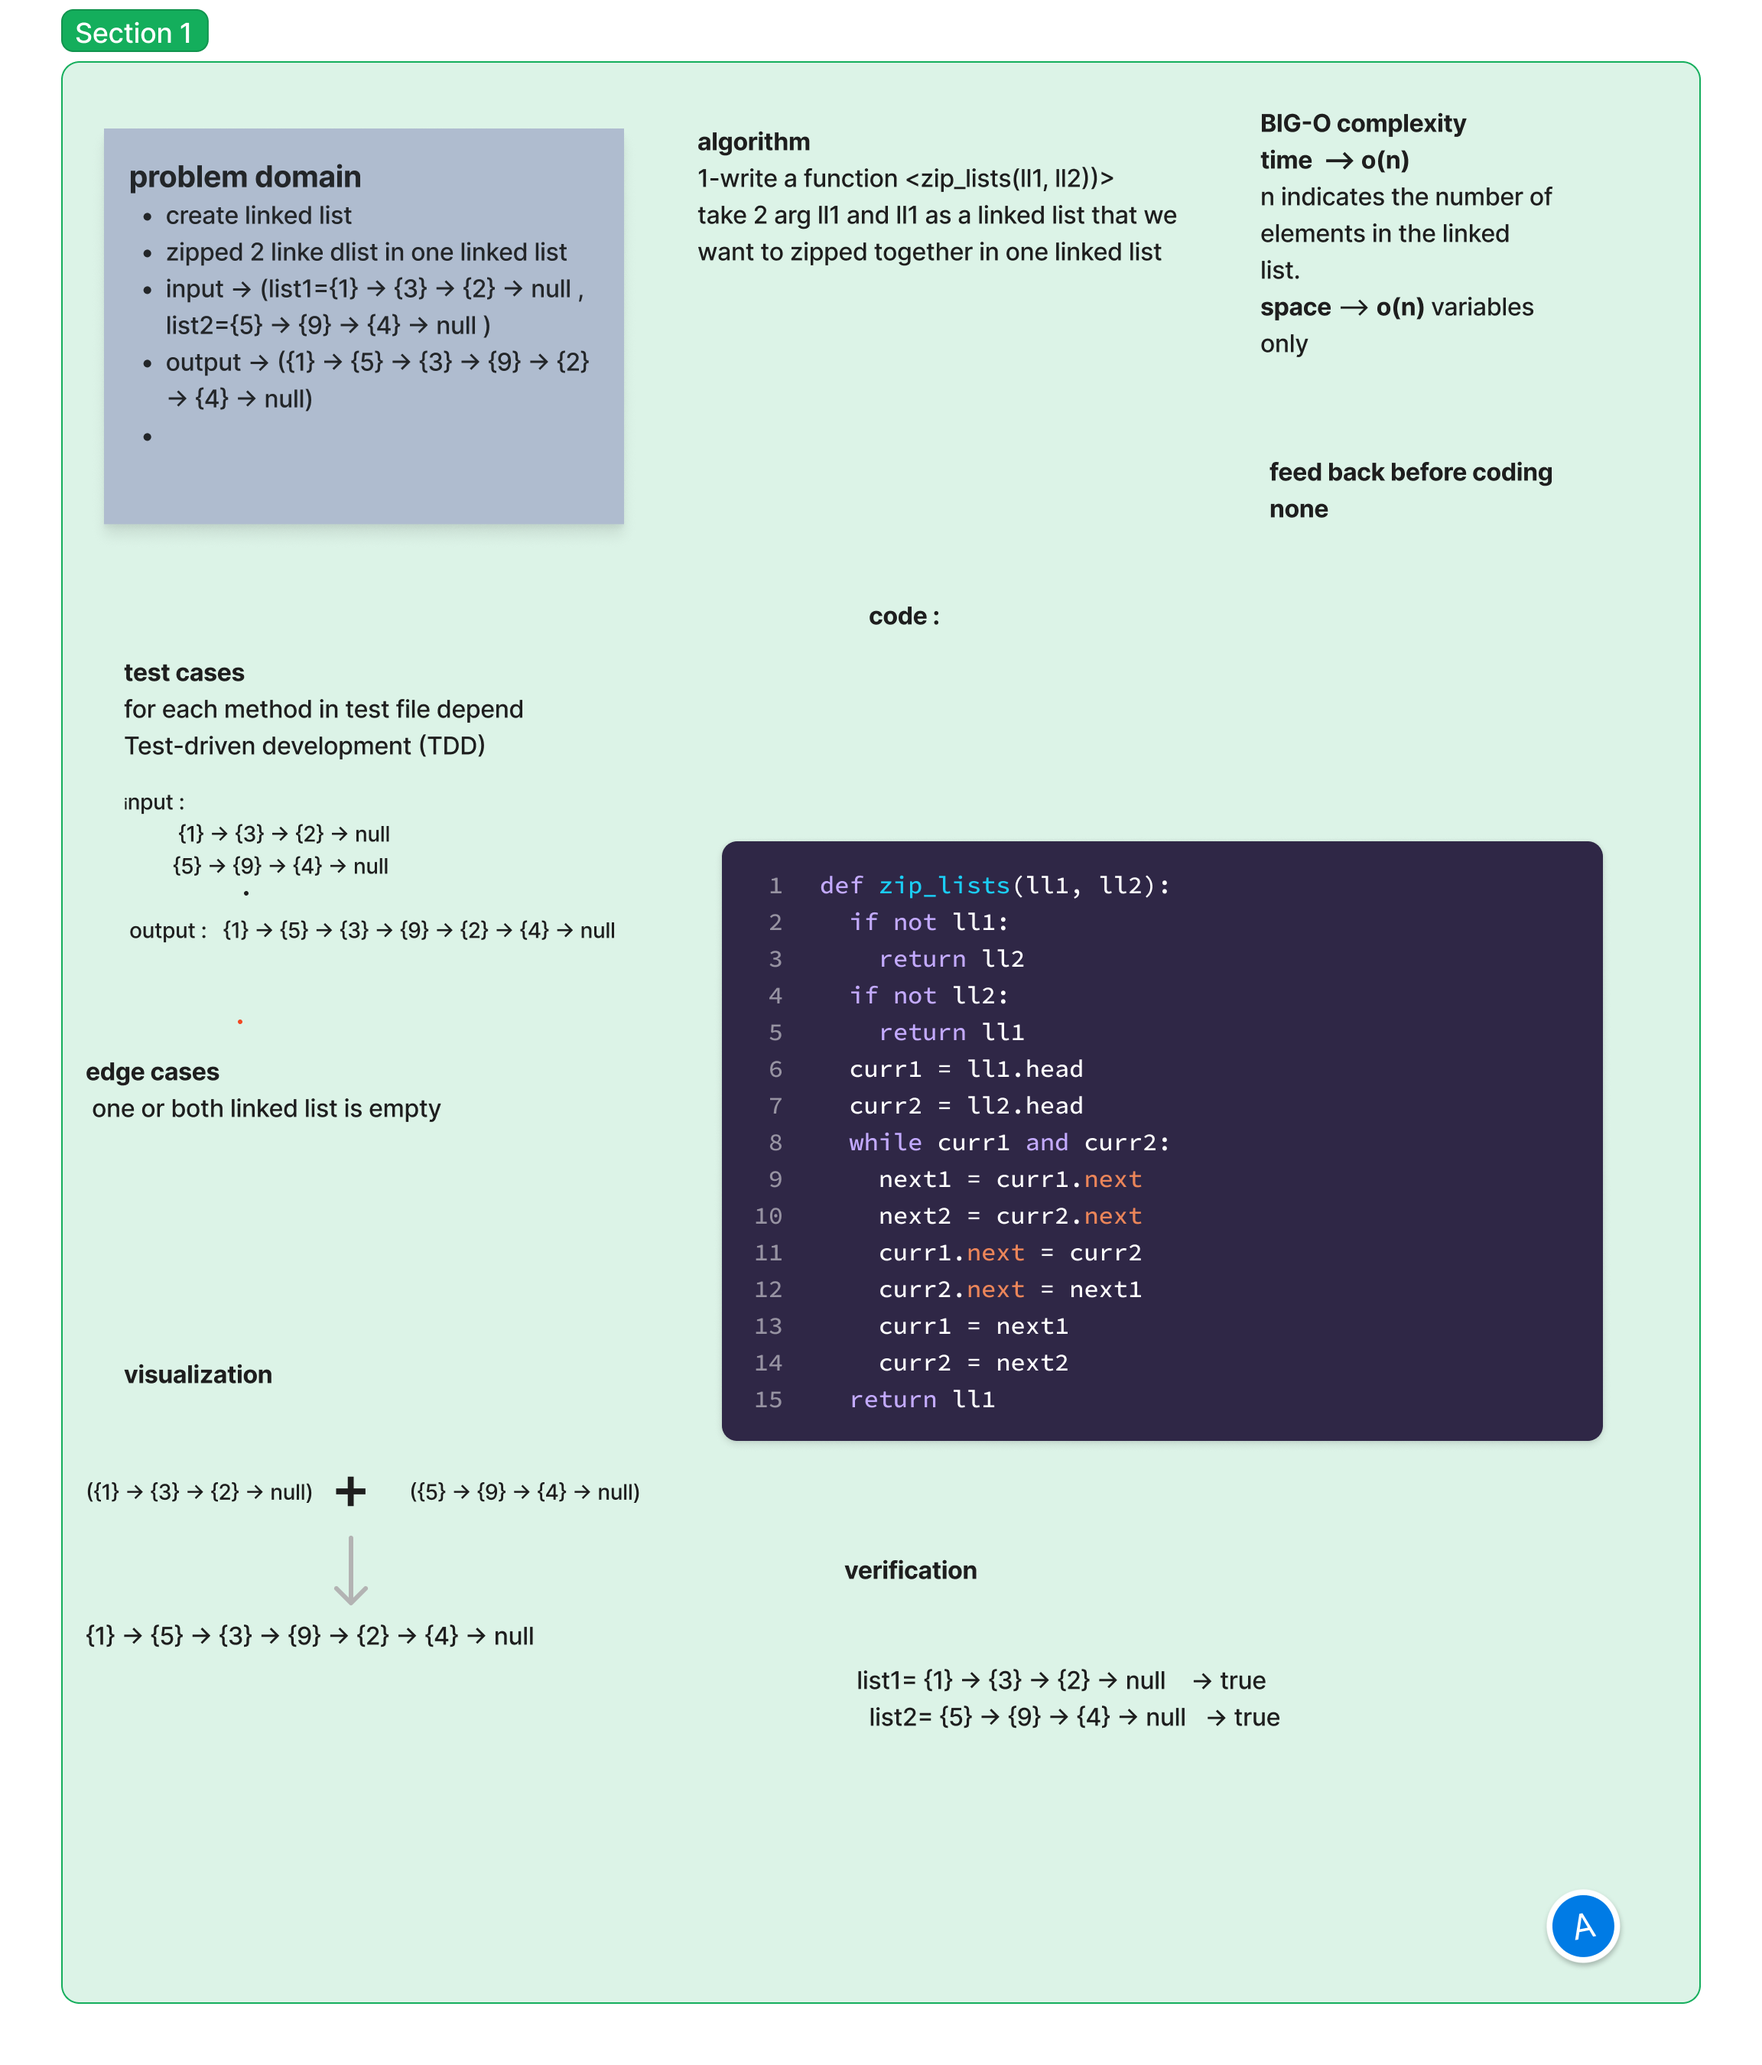
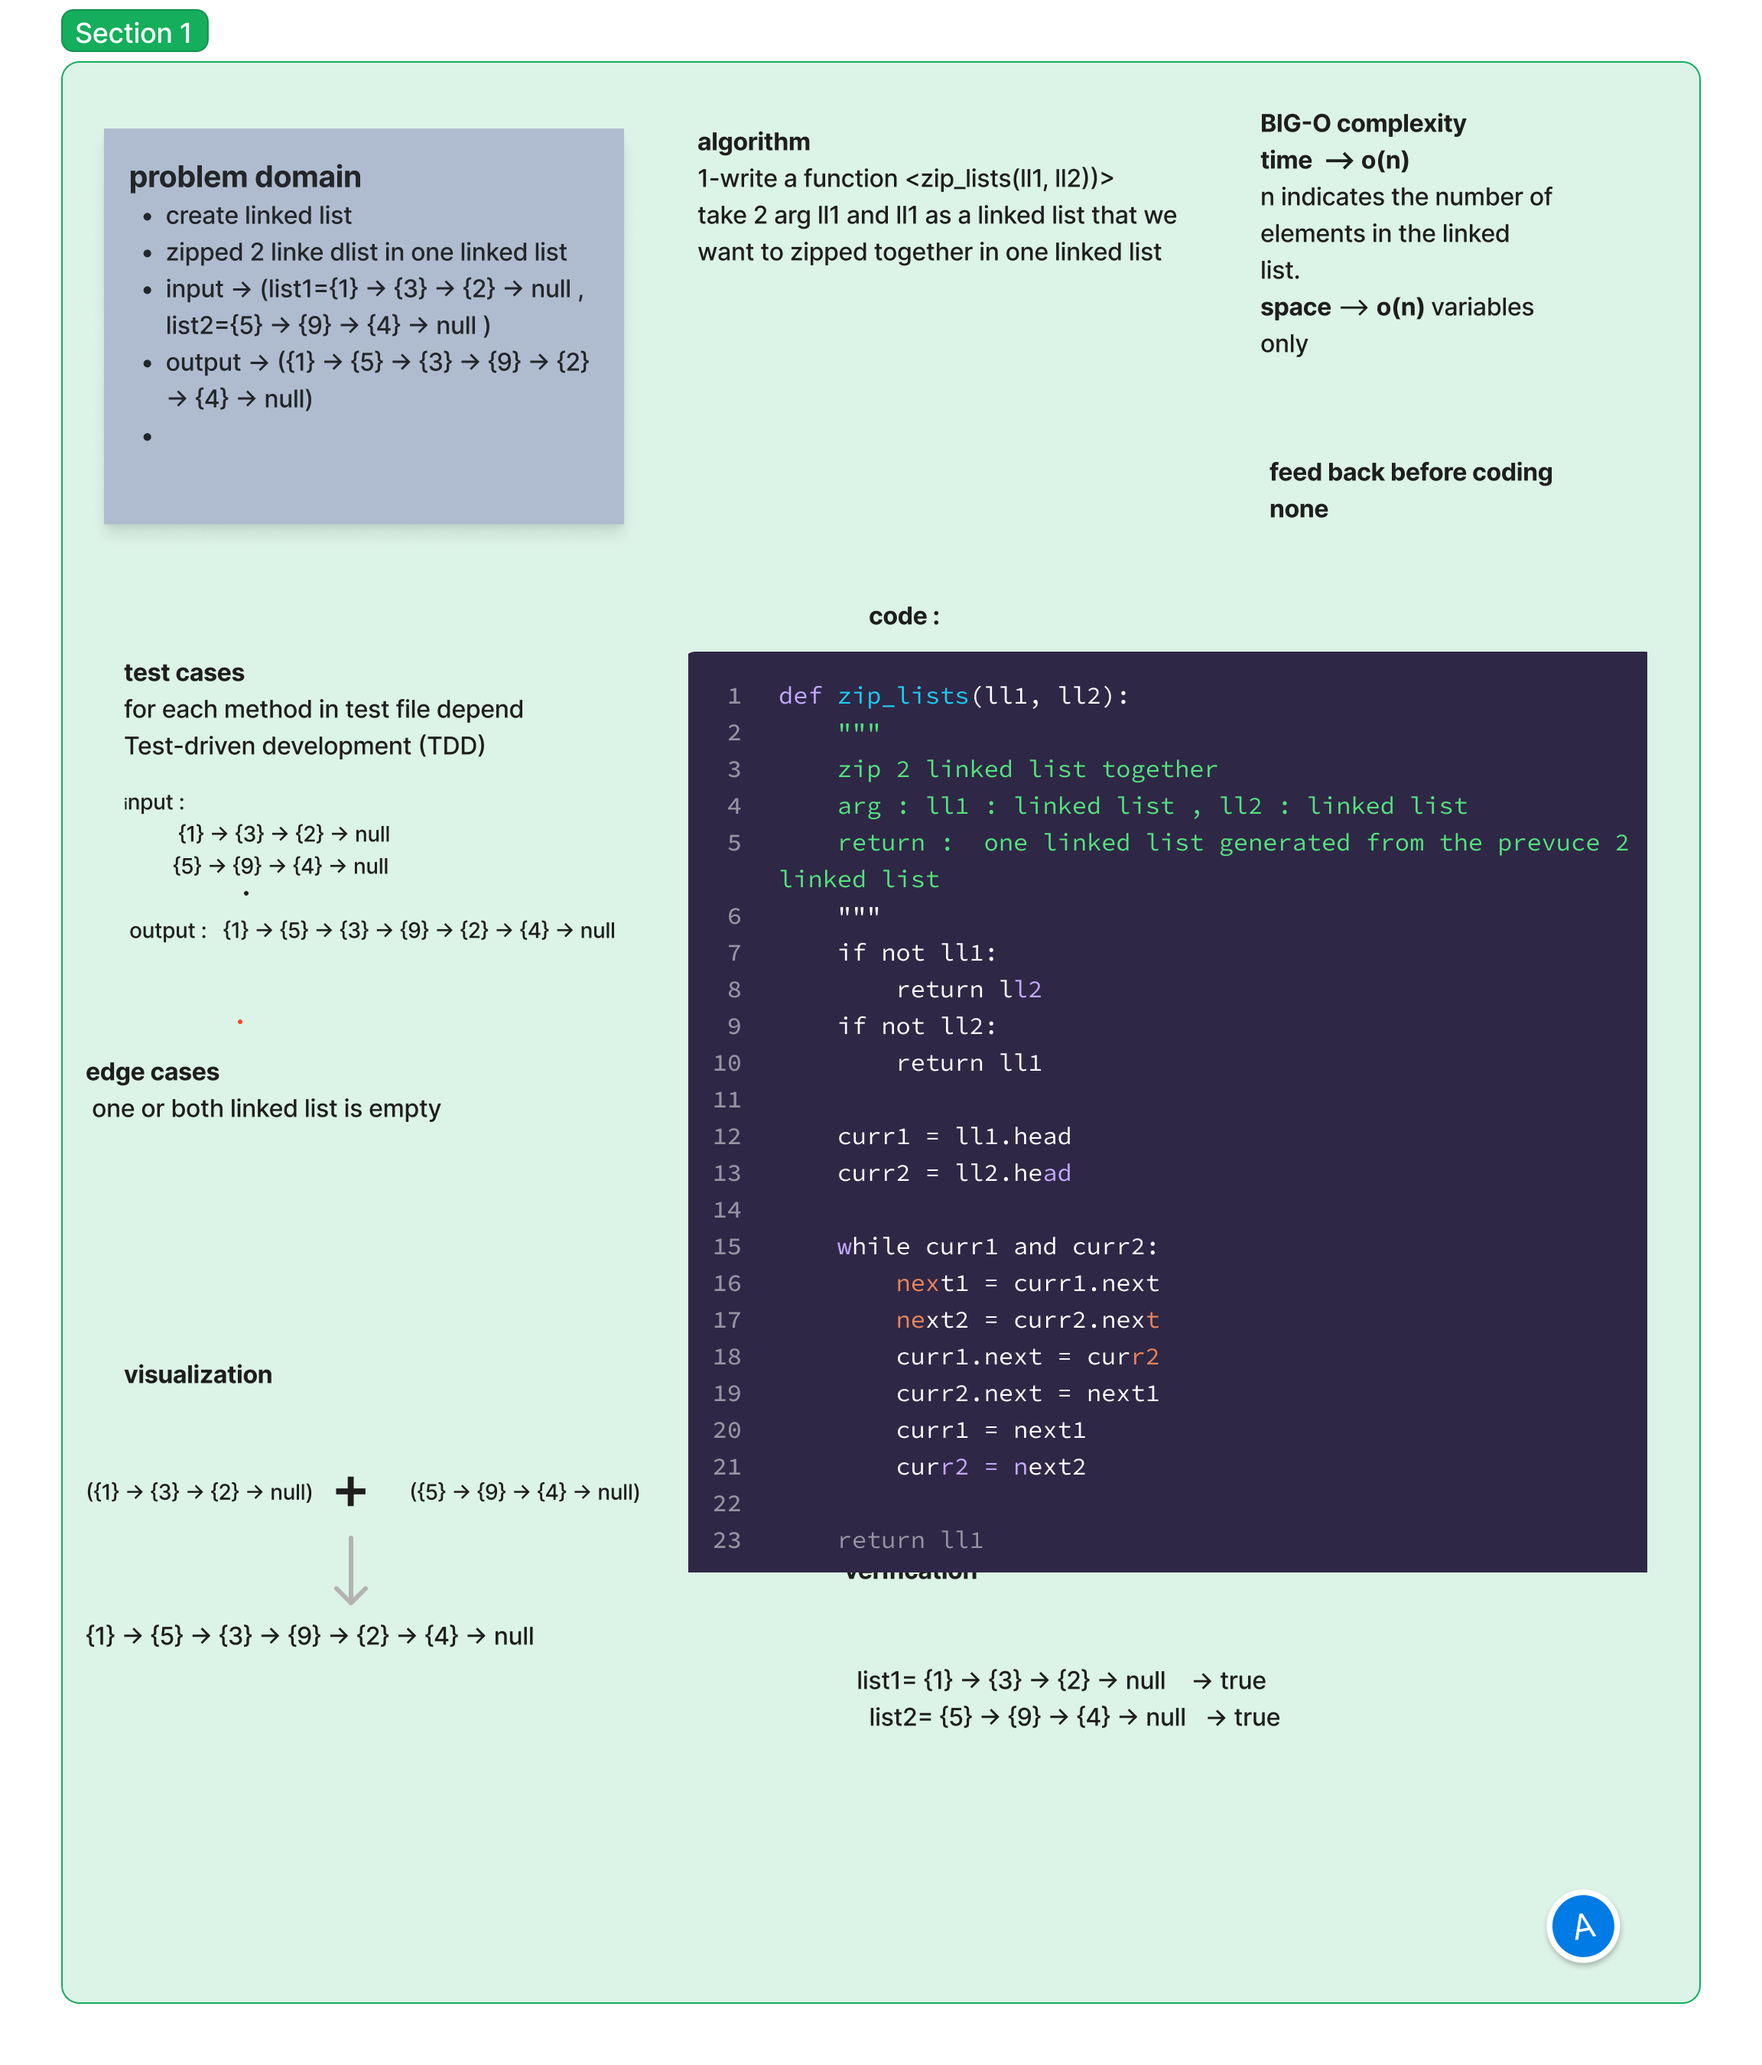
write docstring and ubdate table of content

Changed region(s): [[0.375, 0.3111, 0.9375, 0.7778]]

diff --git a/linked_list/test/test_linked_list.py b/linked_list/test/test_linked_list.py
@@ -98,9 +98,11 @@ def test_delete_node(reset_ll,append):
 def test_k_greater_than_length(reset_ll,append):
     reset_ll
     append  # add 3 element  length =3
-    expected = "4 is greater than the lenth of linked list"
-    actual = ll.kth_from_end(4)
-    assert expected == actual 
+    try :
+        ll.kth_from_end(4)
+    except Exception as e :
+        assert str(e)=="out of range"
+    
 
 #  Where k and the length of the list are the same
 def test_k_same_length(reset_ll,append):
@@ -112,7 +114,11 @@ def test_k_same_length(reset_ll,append):
 
 #  Where k is not a positive integer
 def test_k_negative_number():
-   assert ll.kth_from_end(-2) =='no negativ index'
+   try:
+        ll.kth_from_end(-2)
+   except Exception as e :
+       assert str(e)=="negative number"
+     
 
 #  Where the linked list is of a size 1
 def test_length_is_1(reset_ll):
@@ -120,7 +126,11 @@ def test_length_is_1(reset_ll):
     ll.insert('a')
     assert ll.kth_from_end(0) == 'a'
     assert ll.kth_from_end(1) == 'a'
-    assert ll.kth_from_end(2) == "2 is greater than the lenth of linked list"
+    try:
+        ll.kth_from_end(2)
+    except Exception as e:
+        assert str(e)=="out of range"
+    
     
 # “Happy Path” where k is not at the end, but somewhere in the middle of the linked list
 def test_k_in_mid(reset_ll,insert):
@@ -129,13 +139,19 @@ def test_k_in_mid(reset_ll,insert):
     ll.insert('d')
     assert ll.kth_from_end(2) == "c"
 
+# find mid list is empty
+def test_find_mid(reset_ll):
+    reset_ll
+    try :
+        ll.find_middle()
+    except Exception as e :
+        assert str(e)=="list is empty"
+
 # test find the mid of linked list
 def test_find_mid(reset_ll,insert):
     reset_ll
     insert
     assert ll.find_middle()=='b'
-
- 
 def test_zip_lists(reset_ll):
     # Test case 1: zipping two empty lists
     reset_ll
@@ -195,6 +211,9 @@ def append():
     ll.append("b")
     ll.append("c")
     return ll     
+
+
+
 
 
 

diff --git a/linked_list/linked_list.py b/linked_list/linked_list.py
@@ -135,10 +135,10 @@ class LinkedList:
          k: refere to  the location or index  starting from the end at pozition 0
         """
         if k < 0:
-           return "no negativ index"
+           raise Exception("negative number")
         
         elif not self.head :
-            return "list is empty lenth is 0"
+            raise Exception ("list is empty")
         else :
             current = self.head
             length = 1
@@ -147,7 +147,7 @@ class LinkedList:
                 length += 1  
                 current = current.next
             if k > length:
-                return f"{k} is greater than the lenth of linked list"
+                raise Exception("out of range")
 
             current = self.head
             index=length -1
@@ -160,7 +160,7 @@ class LinkedList:
     def find_middle(self):
 
         if not self.head:
-            return "list is empty"
+            raise Exception("list is empty")
 
         current = self.head
         length = 1
@@ -168,9 +168,12 @@ class LinkedList:
             length += 1  
             current = current.next
         mid=length //2
+        try :
+            return LinkedList.kth_from_end(self,mid)
+        except Exception as e:
+            raise e
 
-        return LinkedList.kth_from_end(self,mid)
-    
+
 def get_length(head):
     """Returns the length of a linked list."""
     current = head
@@ -181,6 +184,11 @@ def get_length(head):
     return count
     
 def zip_lists(ll1, ll2):
+    """
+    zip 2 linked list together 
+    arg : ll1 : linked list , ll2 : linked list 
+    return :  one linked list generated from the prevuce 2 linked list 
+    """
     if not ll1:
         return ll2
     if not ll2:
@@ -207,11 +215,4 @@ if __name__ == "__main__":
     ll1=LinkedList()
     ll2=LinkedList()
 
-    ll1.append(1)
-    ll1.append(3)
-    
-    ll2.append(2)
-    ll2.append(4)
-    ll2.append(6)
-    print(zip_lists(ll1,ll2))
-    
+   

diff --git a/README.md b/README.md
@@ -1,13 +1,9 @@
 # data-structures-and-algorithms
 
-## revers array 
-[check the solution](./arr_rev/README.md)
 
-## array insert shift 
-[insert into arr](./array-_nsert_shift/README.md)
-
-## array-binary-search
-[search in array binary](./search_in_array_binary/README.md)
-
-## linked list 
-[linked list](./linked_list/README.md)
+## table of content
+|title|link|
+|revers array |[check the solution](./arr_rev/README.md)|
+|array insert shift |[insert into arr](./array-_nsert_shift/README.md)|
+|array-binary-search|[search in array binary](./search_in_array_binary/README.md)|
+| linked list |[linked list](./linked_list/README.md)|
